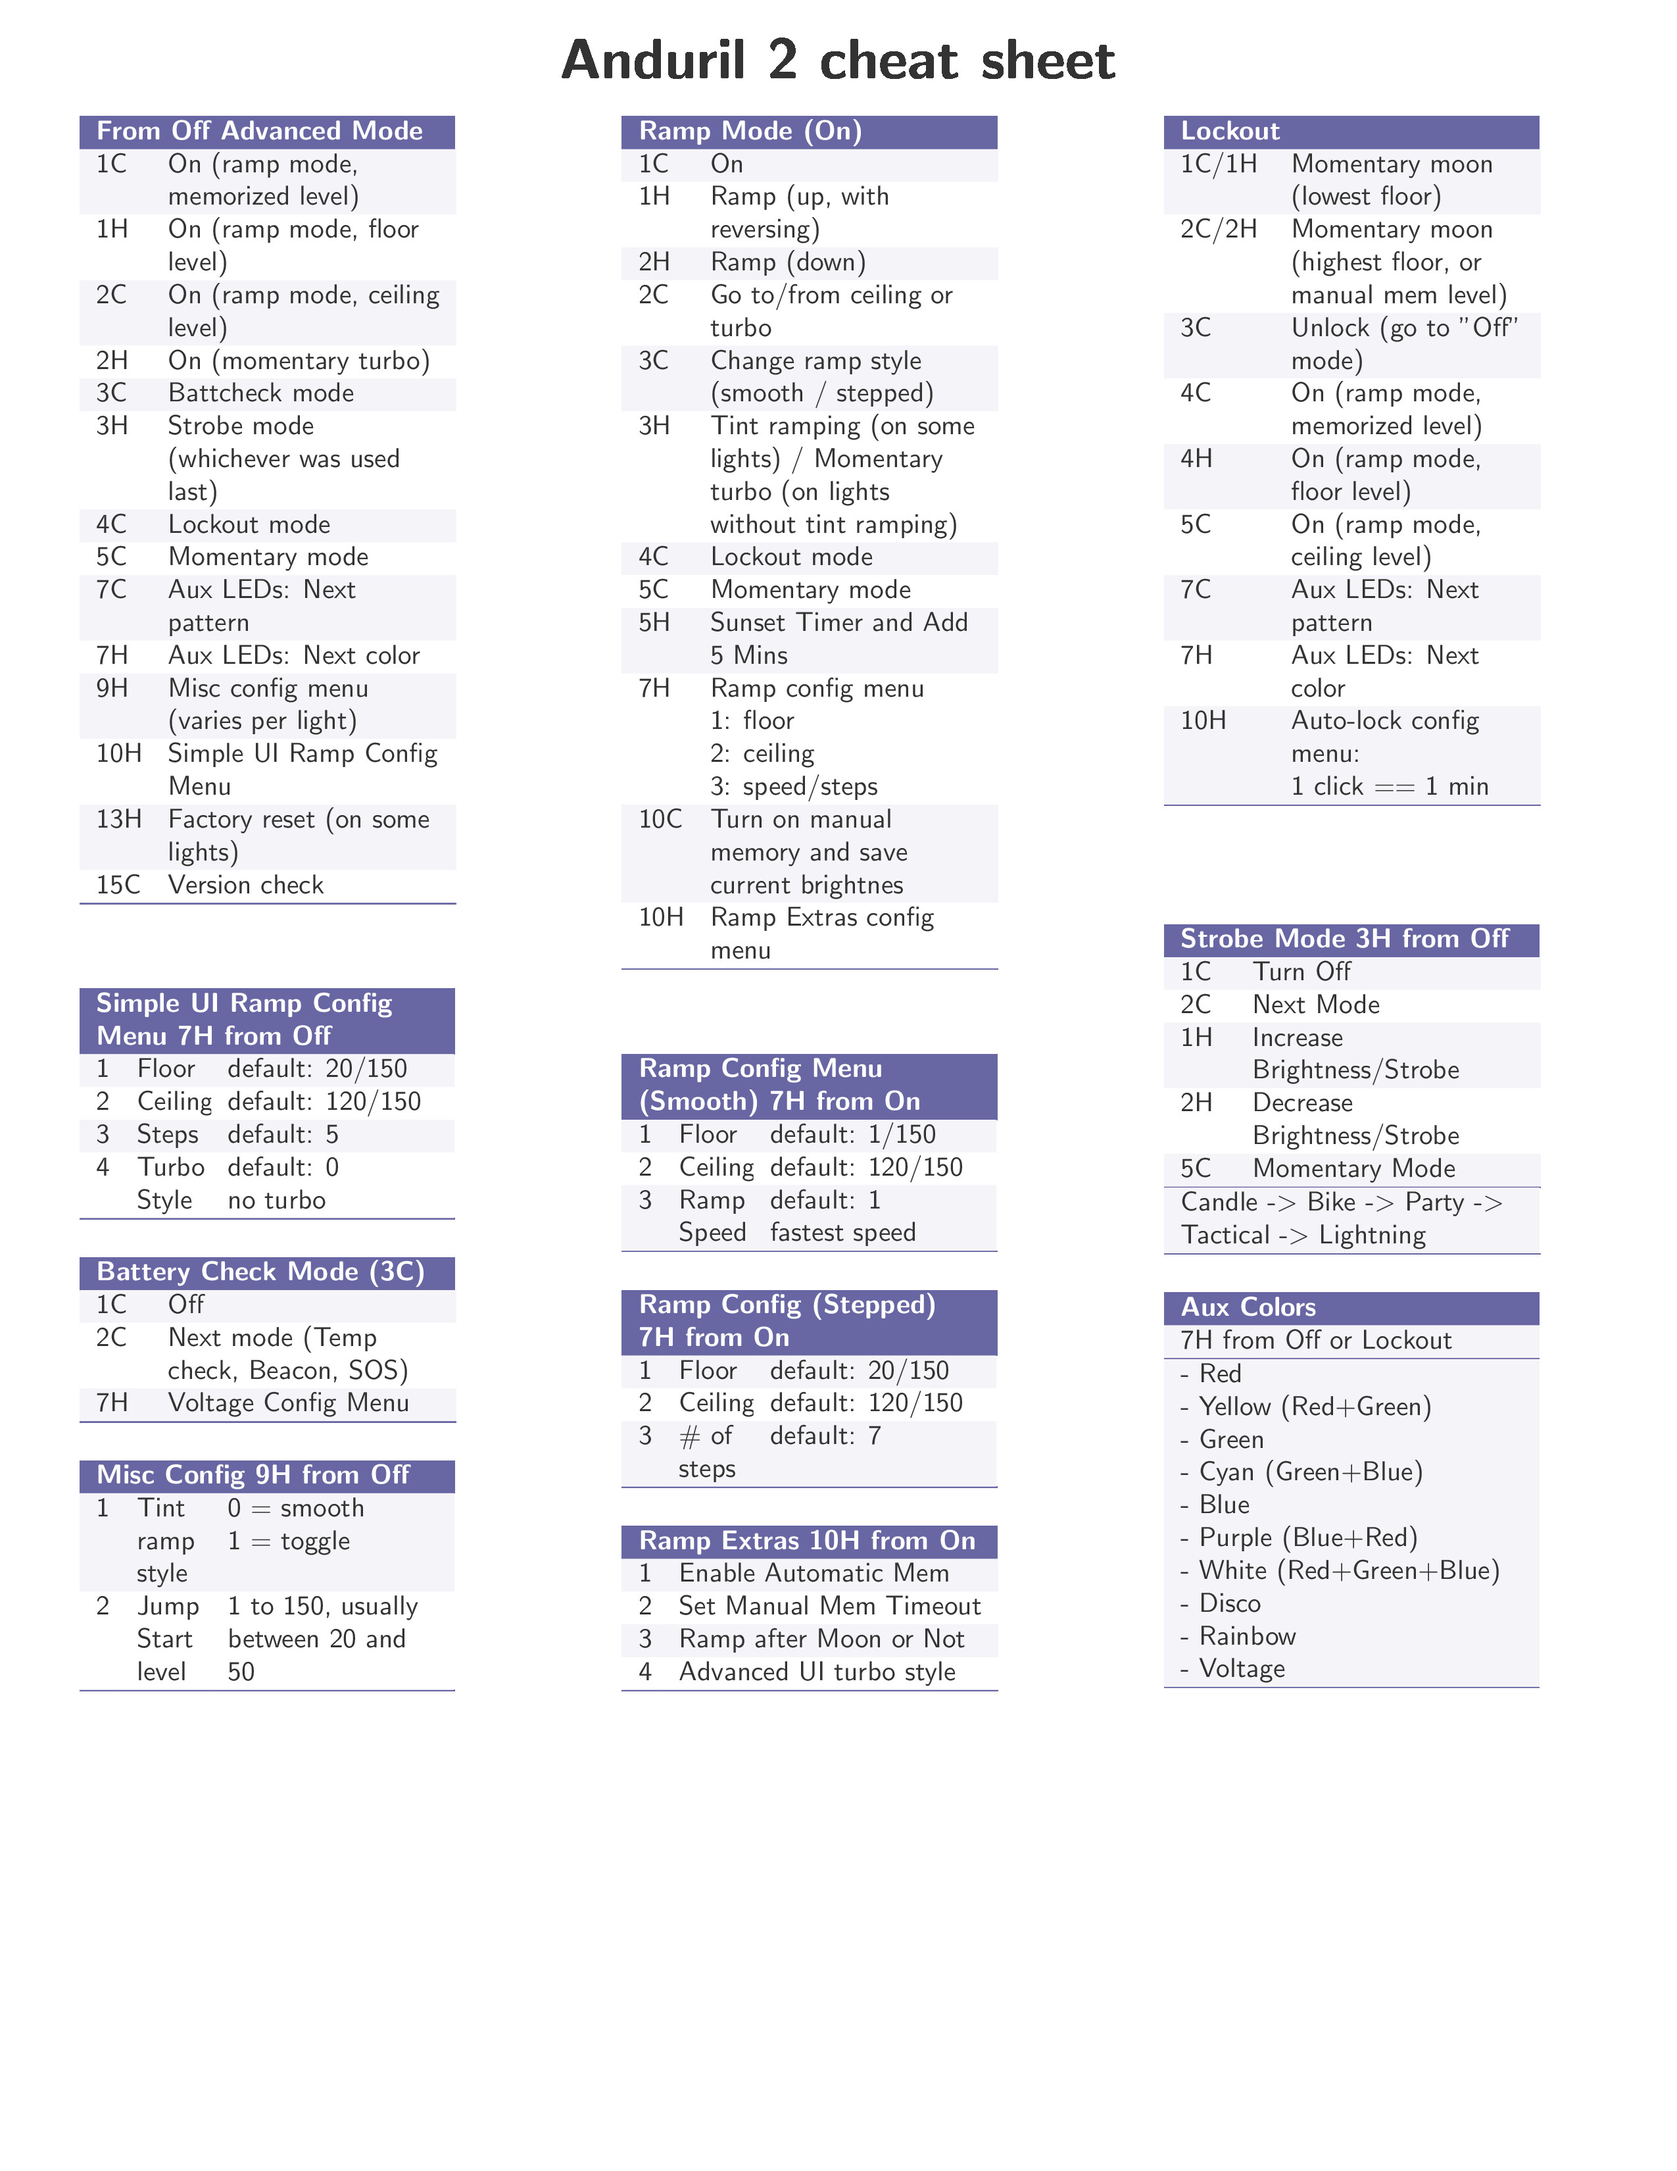
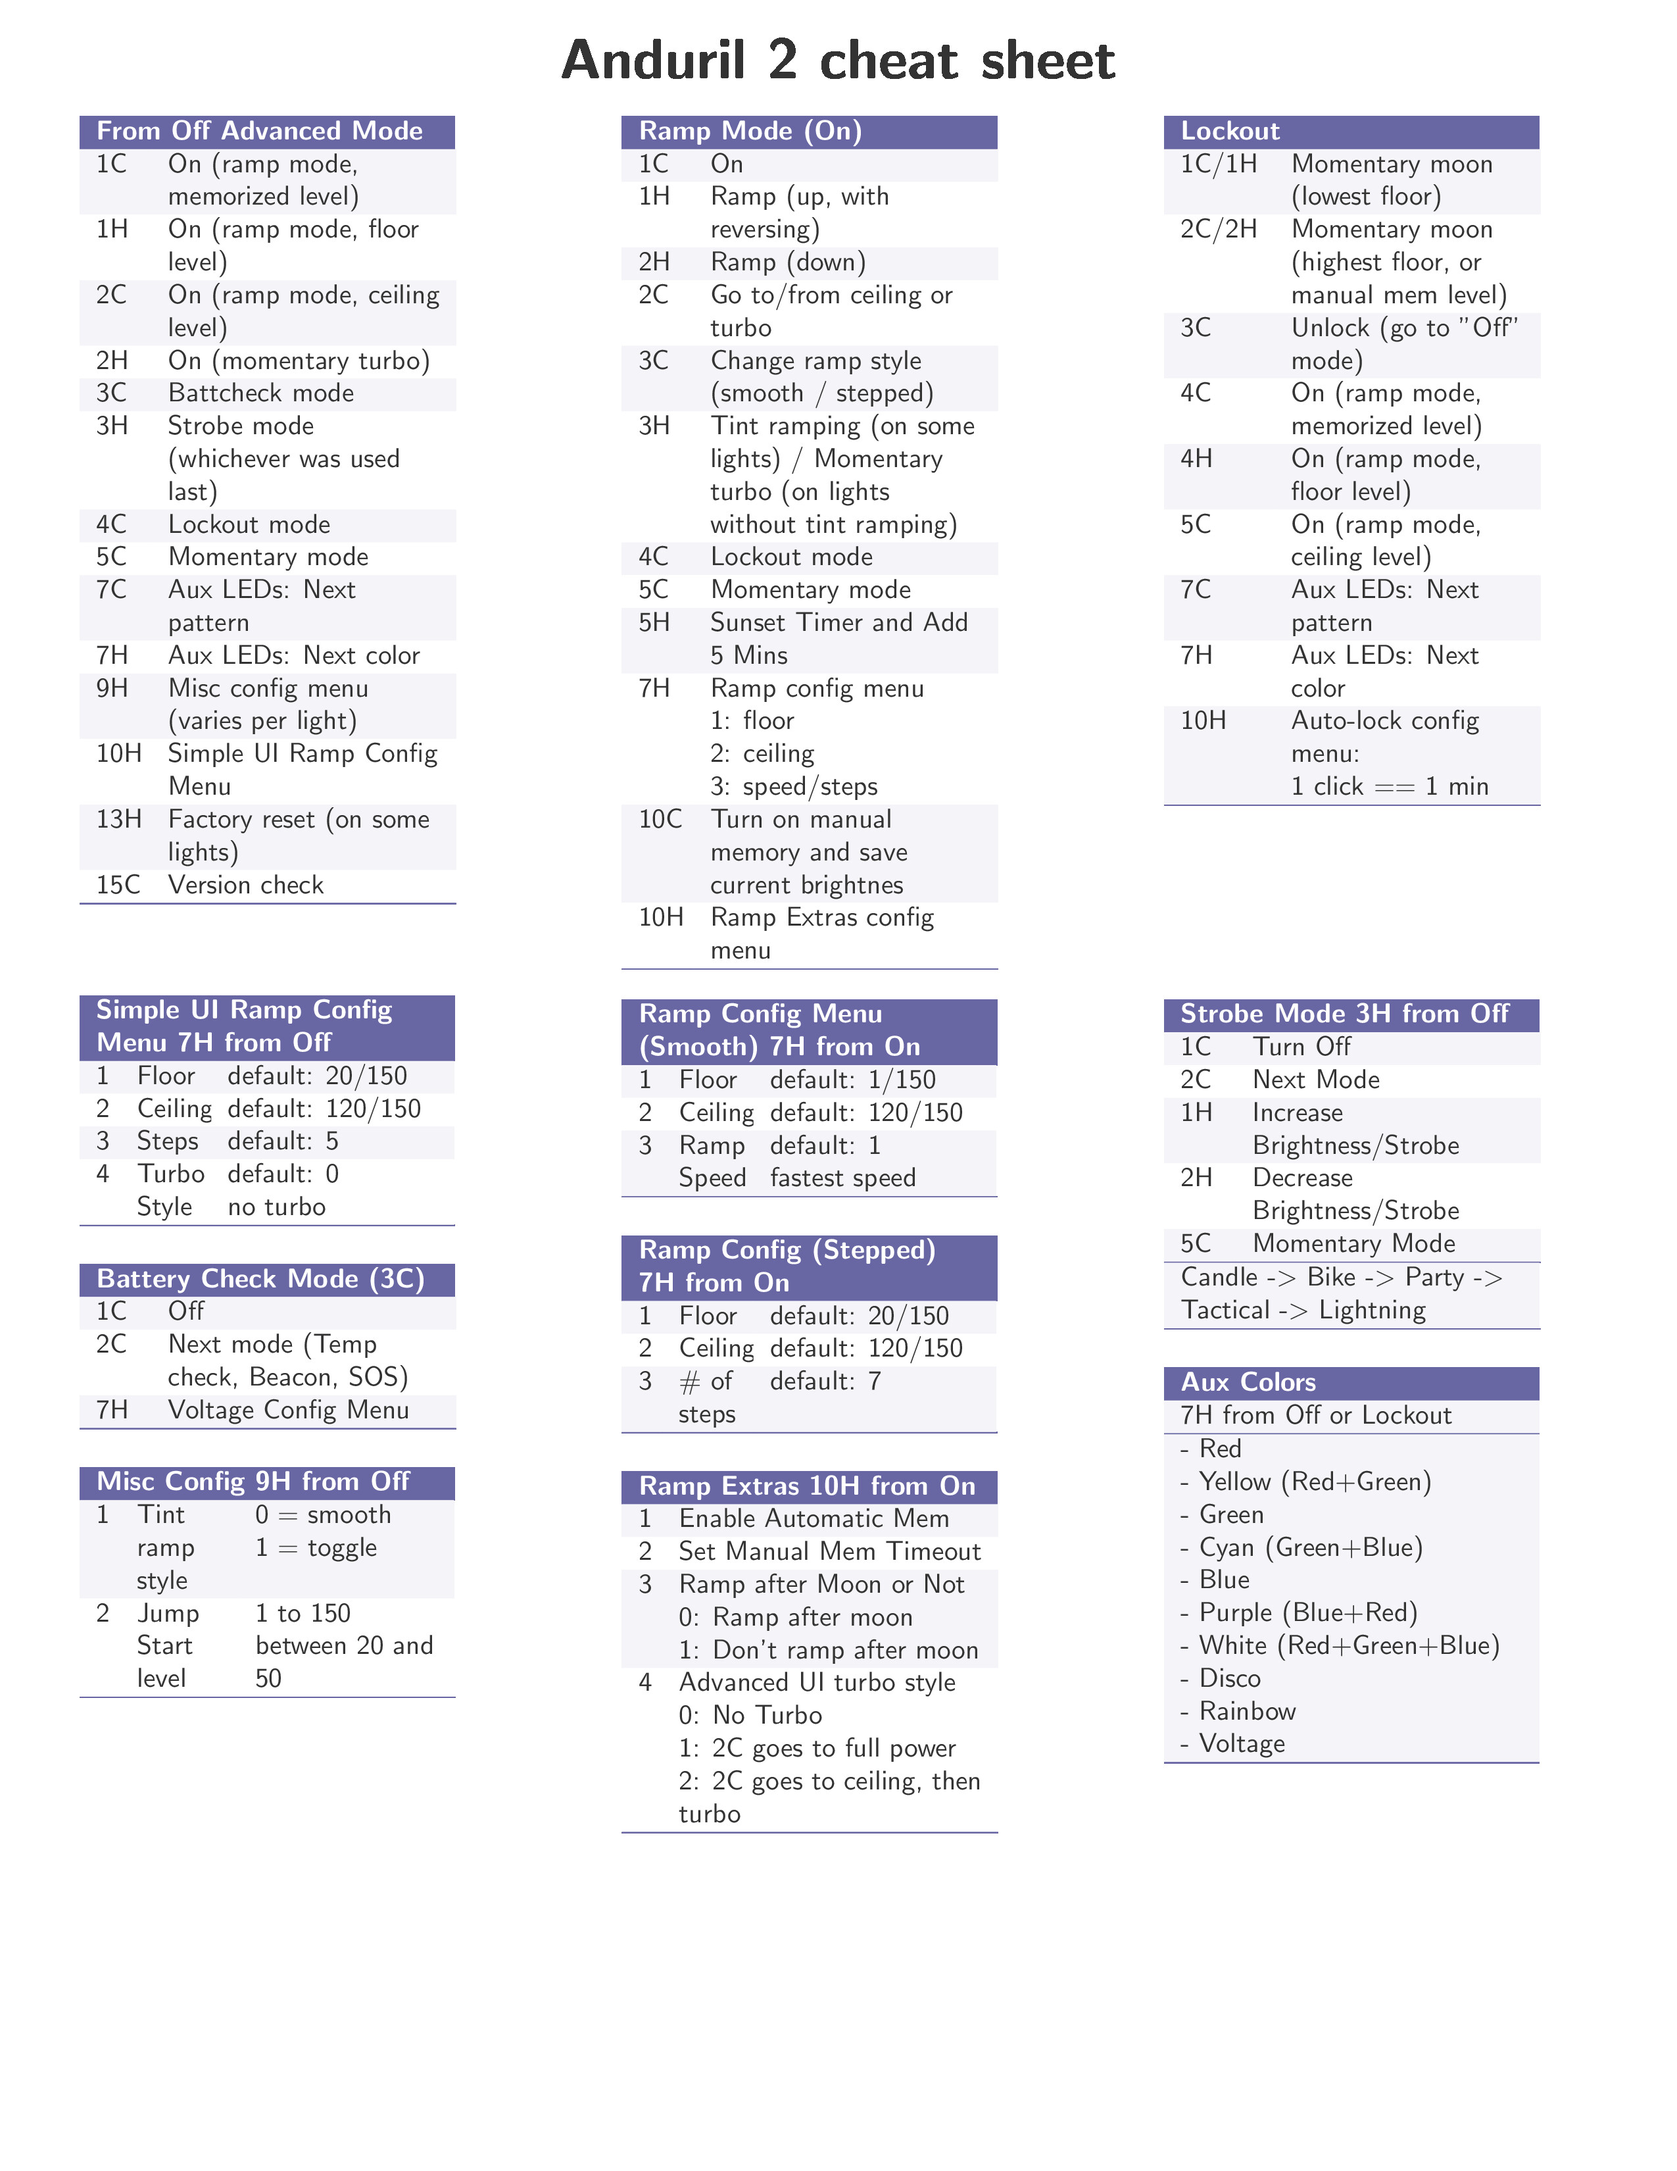
Version2.1 (#2)
* adds menu items

* removes conditional to build LaTeX

* additional action changes

* Add cheatsheet.pdf cheatsheet.jpg

Changed region(s): [[0.3718, 0.437, 0.6196, 0.8427], [0.6816, 0.4058, 0.9294, 0.8115], [0.062, 0.437, 0.2788, 0.7803]]

diff --git a/cheatsheet.tex b/cheatsheet.tex
@@ -108,7 +108,7 @@
 % Row Count 15 (+ 1)
 \hhline{>{\arrayrulecolor{DarkBackground}}--}
 \end{tabularx}
-\par\addvspace{3 em}
+\par\addvspace{3.25 em}
 
 % Simple UI Ramp Config
 % \begin{tabularx}{3.80 cm}{p{0.50 cm} x{3.5 cm} }
@@ -155,20 +155,39 @@
 \end{tabularx}
 \par\addvspace{1.3 em}
 
-\begin{tabularx}{4.0 cm}{p{0.10 cm} x{0.75 cm} x{2.70 cm} }
+\begin{tabularx}{4.0 cm}{p{0.10 cm} x{1.10 cm} x{2.35 cm} }
 \SetRowColor{DarkBackground}
 \mymulticolumn{3}{x{4.41 cm}}{\bf\textcolor{white}{Misc Config 9H from Off}}  \tn
 % Row 0
 \SetRowColor{LightBackground}
-  1 & Tint ramp style & {0 = smooth \\ 1 = toggle} \tn
+1 & Tint ramp style & {0 = smooth \\ 1 = toggle} \tn
 % Row Count 2 (+ 2)
 % Row 1
 \SetRowColor{white}
-2 & Jump Start level & 1 to 150, usually between 20 and 50 \tn
+2 & Jump Start level & {1 to 150 \\ between 20 and 50} \tn
 % Row Count 4 (+ 2)
 \hhline{>{\arrayrulecolor{DarkBackground}}---}
 \end{tabularx}
 \par\addvspace{1.3em}
+
+% \begin{tabularx}{4 cm}{|c|c|c|}
+% \SetRowColor{DarkBackground}
+% \mymulticolumn{3}{x{3.41 cm}}{\bf\textcolor{white}{Misc Config 9H from Off}}  \tn
+% % Row 0
+% \SetRowColor{LightBackground}
+%   1 & 2 & 3
+% \end{tabularx}
+
+%%\begin{tabularx}{|c|c|c|}
+%\begin{tabularx}{4.0 cm}{p{0.10 cm} x{1.10 cm} x{2.35 cm} }
+%\SetRowColor{DarkBackground}
+%\hline
+%%\mymulticolumn{5}{c}{\bf\textcolor{white}{Misc Config 9H from Off}}  \tn
+%%\multicolumn{5}{c}{\textcolor{white}{Misc Config from Off}} \\ \hline
+%\mymulticolumn{3}{x{4.41 cm}}{\bf\textcolor{white}{Misc Config 9H from Off}}  \tn
+%1 &2 &3  \\ \hline
+%\end{tabularx}
+
 
 \vfill\null
 \columnbreak
@@ -228,7 +247,7 @@
 % Row Count 16 (+ 1)
 \hhline{>{\arrayrulecolor{DarkBackground}}--}
 \end{tabularx}
-\par\addvspace{3 em}
+\par\addvspace{1 em}
 
 % Ramp config
 \begin{tabularx}{4.0 cm}{p{0.10 cm} x{0.75 cm} x{2.70 cm} }
@@ -278,10 +297,10 @@
 2 & Set Manual Mem Timeout \tn
 % Row 2
 \SetRowColor{LightBackground}
-3 & Ramp after Moon or Not \tn
+3 & { Ramp after Moon or Not \\ 0: Ramp after moon \\ 1: Don't ramp after moon } \tn
 % Row 3
 \SetRowColor{white}
-4 & Advanced UI turbo style \tn
+4 & {Advanced UI turbo style \\ 0: No Turbo \\ 1: 2C goes to full power \\2: 2C goes to ceiling, then turbo } \tn
 \hhline{>{\arrayrulecolor{DarkBackground}}--}
 \end{tabularx}
 \par\addvspace{1.3em}
@@ -324,7 +343,7 @@
 % Row 9
 \hhline{>{\arrayrulecolor{DarkBackground}}--}
 \end{tabularx}
-\par\addvspace{4.25 em}
+\par\addvspace{7 em}
 
 % Strobe Mode
 \begin{tabularx}{3.80 cm}{p{0.50 cm} x{3.5 cm} }
